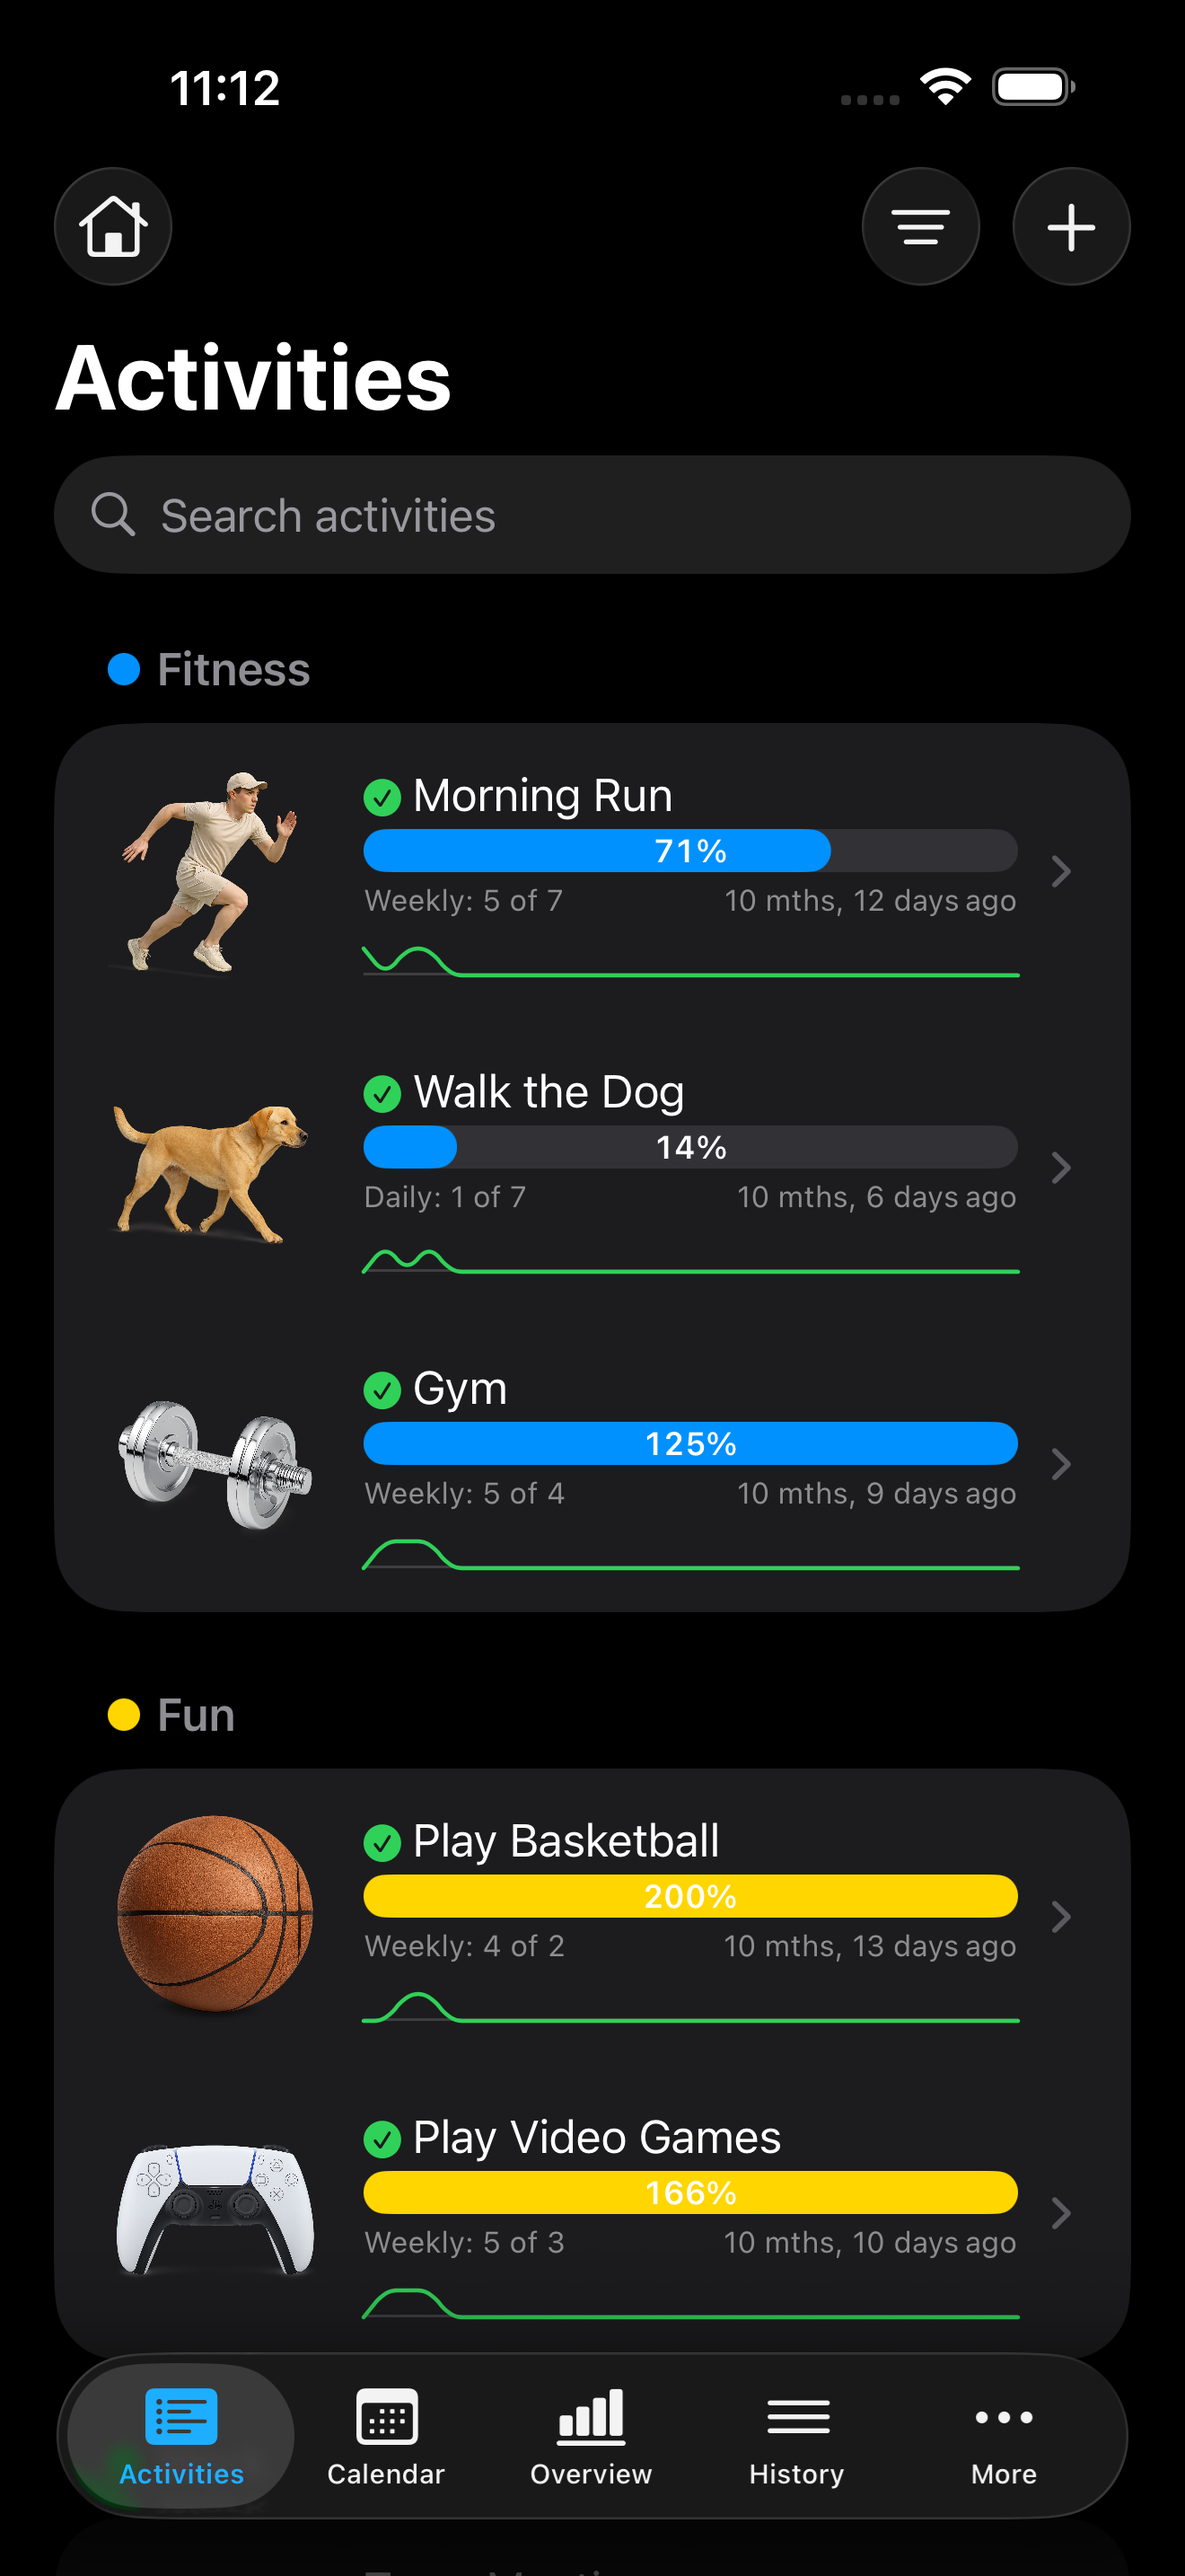
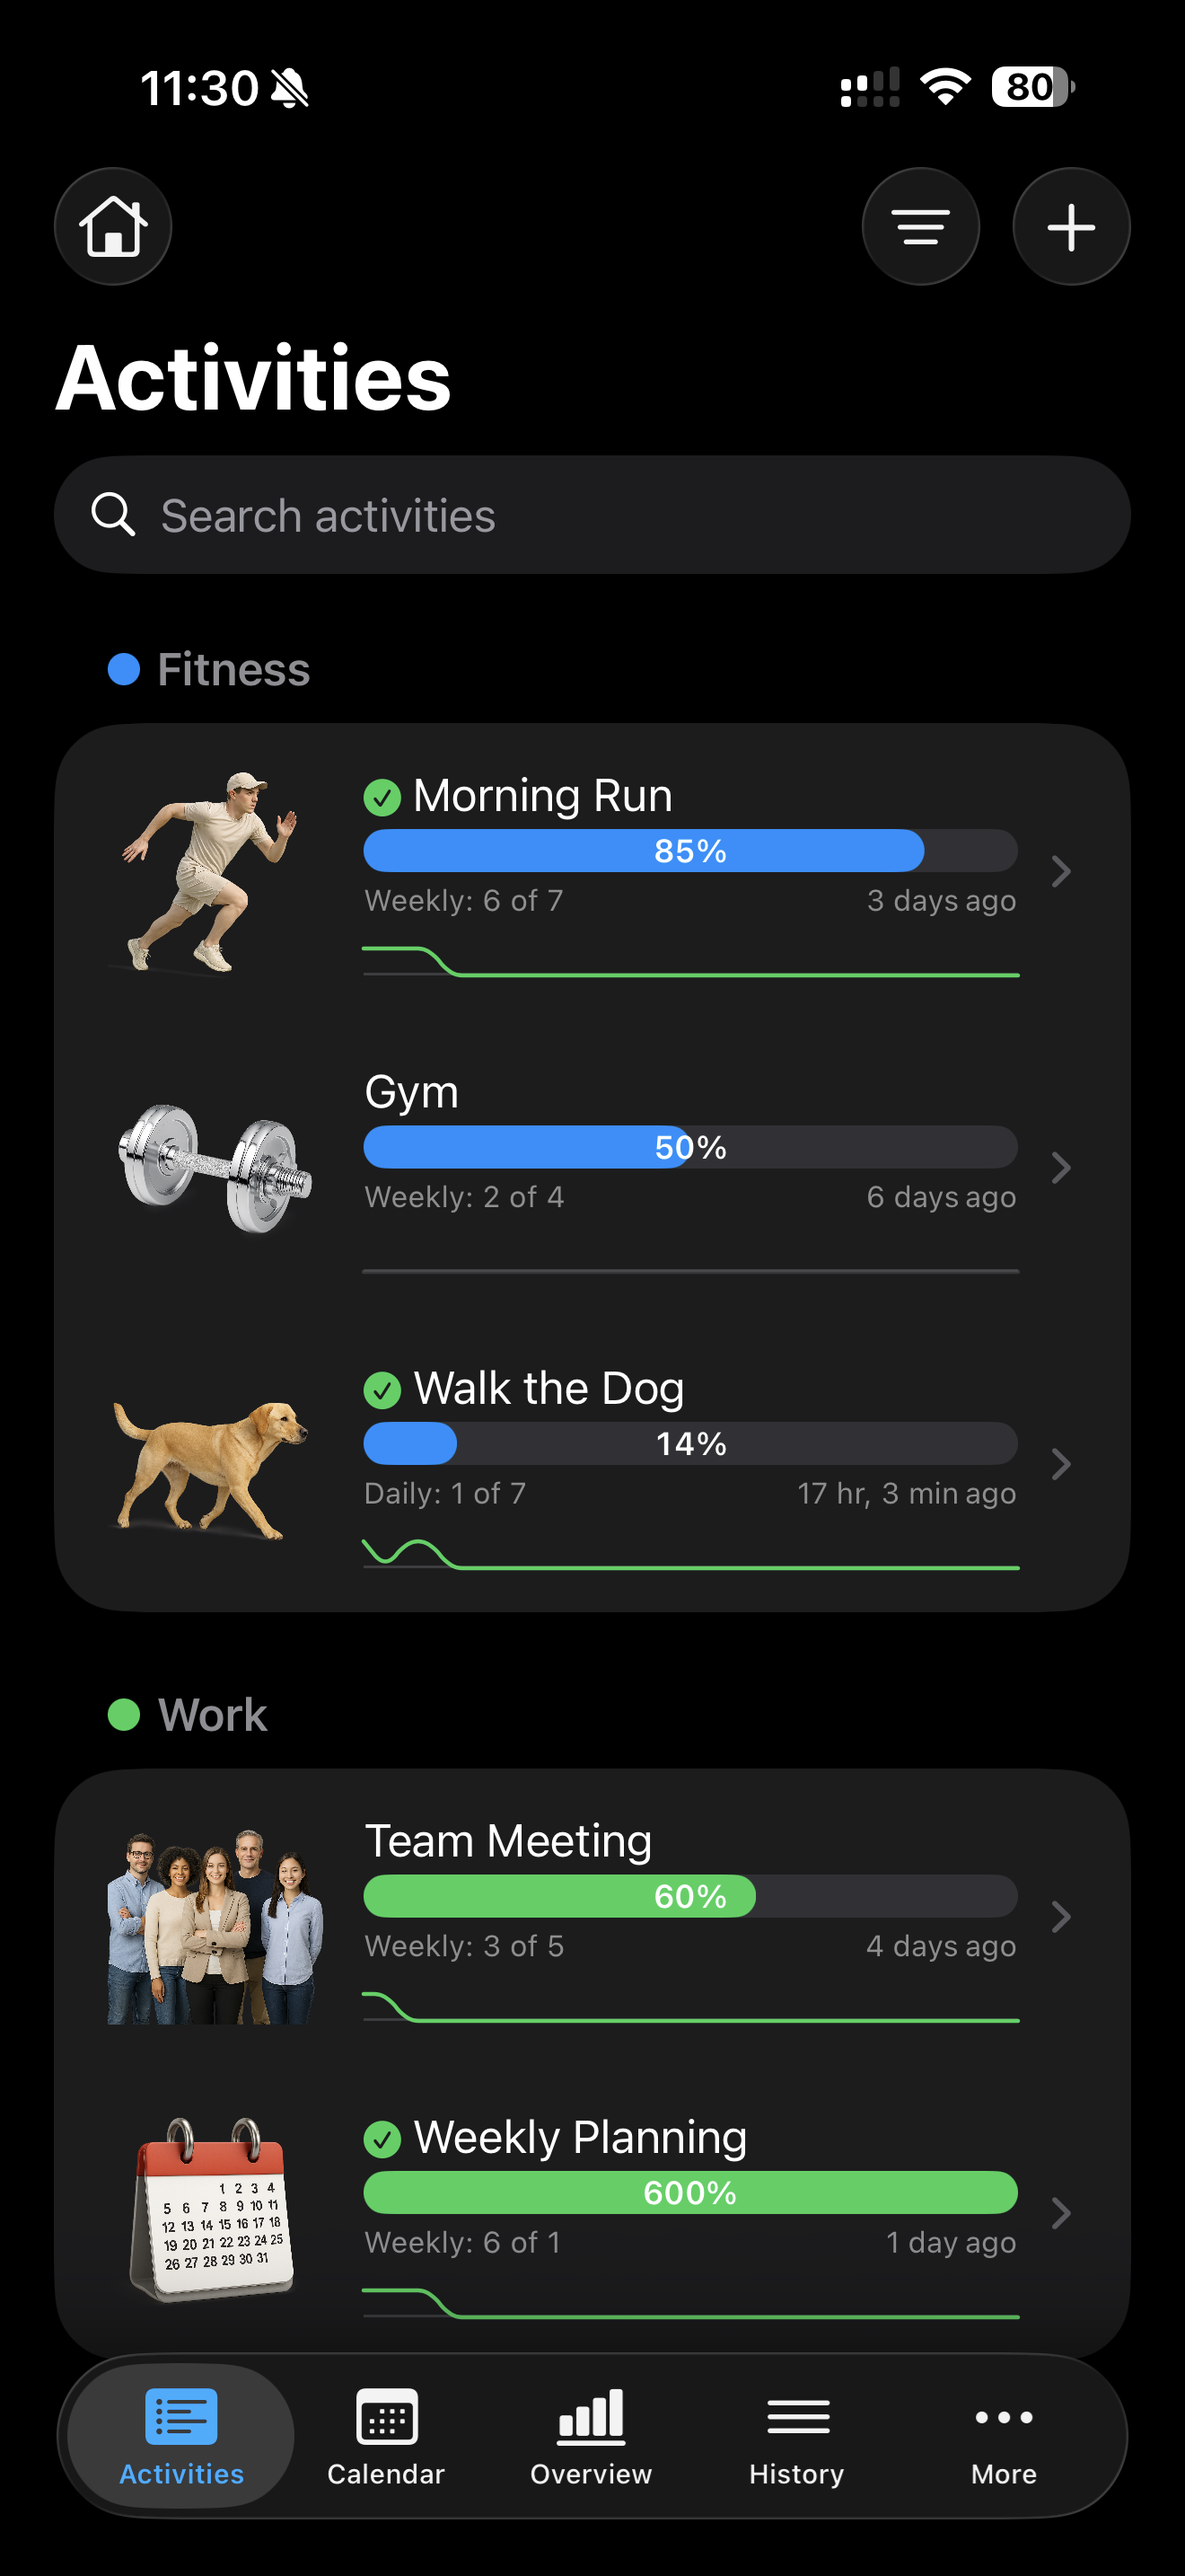
docs: replace screenshots and explain on-device AI insights

diff --git a/README.md b/README.md
@@ -6,28 +6,34 @@ Built with **SwiftUI**, **SwiftData**, **Swift Charts**, and **Foundation Models
 
 ## Screenshots
 
-Captured from the running app on an iPhone 16 Pro Max simulator with iOS 26.1, using test data in dark mode. Select an image to view it at full size.
+Life 2.0 in dark mode, showing activity tracking, calendar views, analytics, and AI insights. Select an image to view it at full size.
 
 <table>
   <tr>
     <th>Activities</th>
     <th>Calendar</th>
-    <th>Overview</th>
+    <th>History</th>
   </tr>
   <tr>
     <td><a href="docs/screenshots/activities.png"><img src="docs/screenshots/activities.png" width="260" alt="Activities grouped by category, with realistic icons, goal progress, and monthly history charts"></a></td>
     <td><a href="docs/screenshots/calendar.png"><img src="docs/screenshots/calendar.png" width="260" alt="September calendar showing completed activities as icons on each day"></a></td>
-    <td><a href="docs/screenshots/overview.png"><img src="docs/screenshots/overview.png" width="260" alt="Overview with monthly activity totals and a category breakdown pie chart"></a></td>
-  </tr>
-  <tr>
-    <th>Activity details</th>
-    <th>History</th>
-    <th>Backup</th>
-  </tr>
-  <tr>
-    <td><a href="docs/screenshots/activity-details.png"><img src="docs/screenshots/activity-details.png" width="260" alt="Activity editor with icon, category, color, recurrence, target count, progress, and notes"></a></td>
     <td><a href="docs/screenshots/history.png"><img src="docs/screenshots/history.png" width="260" alt="Activity history listing completion and recording dates for each entry"></a></td>
-    <td><a href="docs/screenshots/backup.png"><img src="docs/screenshots/backup.png" width="260" alt="Backup screen with JSON export and import controls"></a></td>
+  </tr>
+  <tr>
+    <th>Overview — September</th>
+    <th>Overview — October</th>
+    <th>Streaks &amp; AI insights</th>
+  </tr>
+  <tr>
+    <td><a href="docs/screenshots/overview-september.png"><img src="docs/screenshots/overview-september.png" width="260" alt="September overview with activity totals and a Fitness and Work category breakdown"></a></td>
+    <td><a href="docs/screenshots/overview-october.png"><img src="docs/screenshots/overview-october.png" width="260" alt="October overview with activity totals and a Fitness, Work, and Fun category breakdown"></a></td>
+    <td><a href="docs/screenshots/streaks-ai-insights.png"><img src="docs/screenshots/streaks-ai-insights.png" width="260" alt="Completion trends, activity streaks, and generated AI insights with a refresh control"></a></td>
+  </tr>
+  <tr>
+    <th colspan="3">Calendar in landscape</th>
+  </tr>
+  <tr>
+    <td colspan="3"><a href="docs/screenshots/calendar-landscape.png"><img src="docs/screenshots/calendar-landscape.png" width="840" alt="September calendar in landscape orientation with larger activity icons and the tab bar"></a></td>
   </tr>
 </table>
 
@@ -37,7 +43,7 @@ Captured from the running app on an iPhone 16 Pro Max simulator with iOS 26.1, u
 - **Search and category organization.** Group activities into custom categories, filter by category, and search activity or category names. Give categories their own icons and colors.
 - **A visual activity calendar.** Browse months with arrows or swipe gestures, see completion icons on each day, and tap a date to inspect, add, or delete history entries.
 - **Progress analytics.** View the selected month's top 10 activities and their category breakdown, completion trends over the last 30 days, and activity streak charts.
-- **AI insights.** Generate summaries of trends and streaks, plus encouragement, through Apple's Foundation Models framework. Insights require the system model to be available on the device; availability can differ on simulators.
+- **On-device AI insights.** Apple's **Foundation Models framework** uses the on-device language model that powers **Apple Intelligence** to summarize trends and streaks and offer encouragement. See [On-device AI technology](#on-device-ai-technology) for implementation details and requirements.
 - **Detailed activity history.** Browse all completions with the newest first. Open an activity's History section to add entries, adjust completion dates and times, or delete entries.
 - **Personalized appearance.** Choose SF Symbols or bundled realistic icons, activity colors, and notes. Options control icon size, realistic artwork, gauge animation and colors, monthly row charts, and adjacent-month calendar icons.
 - **Local storage and JSON backups.** SwiftData stores activities, categories, and completion history on the device. Export all three to a single JSON file and restore them through the Backup screen.
@@ -46,6 +52,14 @@ Captured from the running app on an iPhone 16 Pro Max simulator with iOS 26.1, u
 On iPhone, additional screens such as Categories, Options, and Export / Import are available under **More**.
 
 > **Import behavior:** importing requires an empty activity list and replaces stored categories, activities, and history. Export a backup before clearing data through **Options → Delete All Activities**.
+
+## On-device AI technology
+
+The **AI Insights** panel uses Apple's [Foundation Models framework](https://developer.apple.com/documentation/foundationmodels) and its on-device [SystemLanguageModel](https://developer.apple.com/documentation/foundationmodels/systemlanguagemodel), the language model behind Apple Intelligence. Insight generation runs locally on the device.
+
+In `Life 2.0/GraphView.swift`, a `LanguageModelSession` receives a compact snapshot of monthly completion counts, 30-day trends, activity streaks, and top activities. Guided generation with `@Generable` returns a structured `GraphInsights` value containing a trends summary, a streaks summary, and encouragement. The **Refresh Insights** button requests a new summary.
+
+Insights require a supported Apple Intelligence device with Apple Intelligence enabled and the system model available. Model availability can differ on simulators. Activity tracking and charts remain available independently of AI insight generation.
 
 ## Run the project
 
